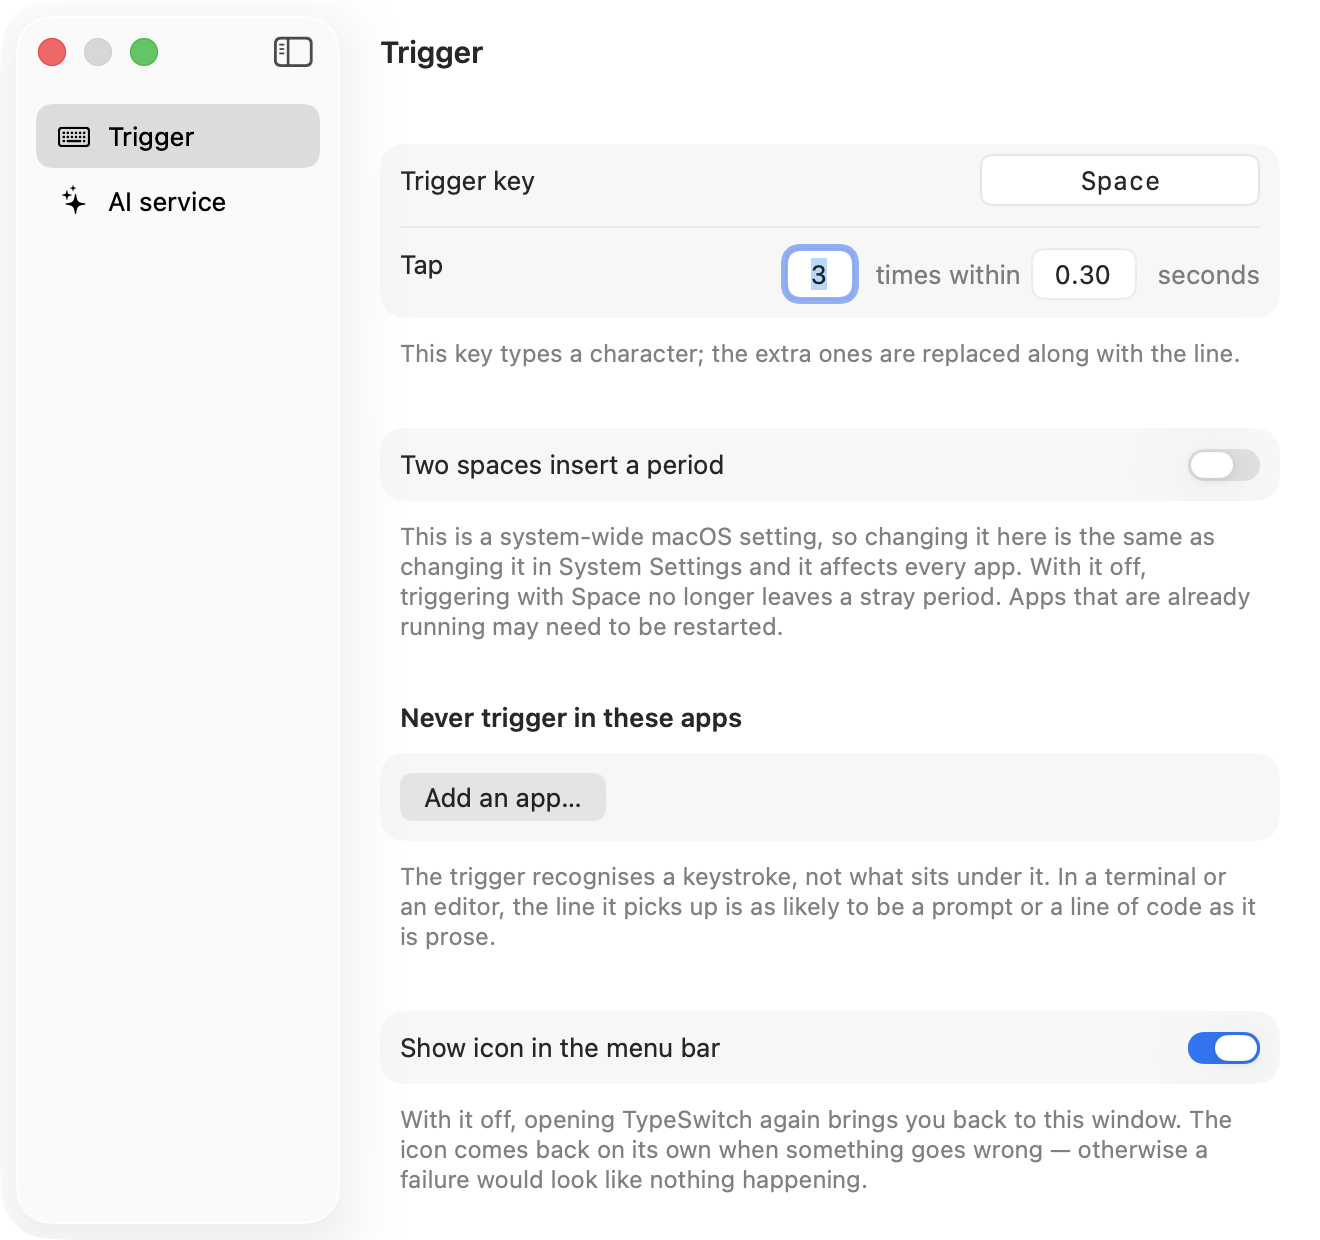
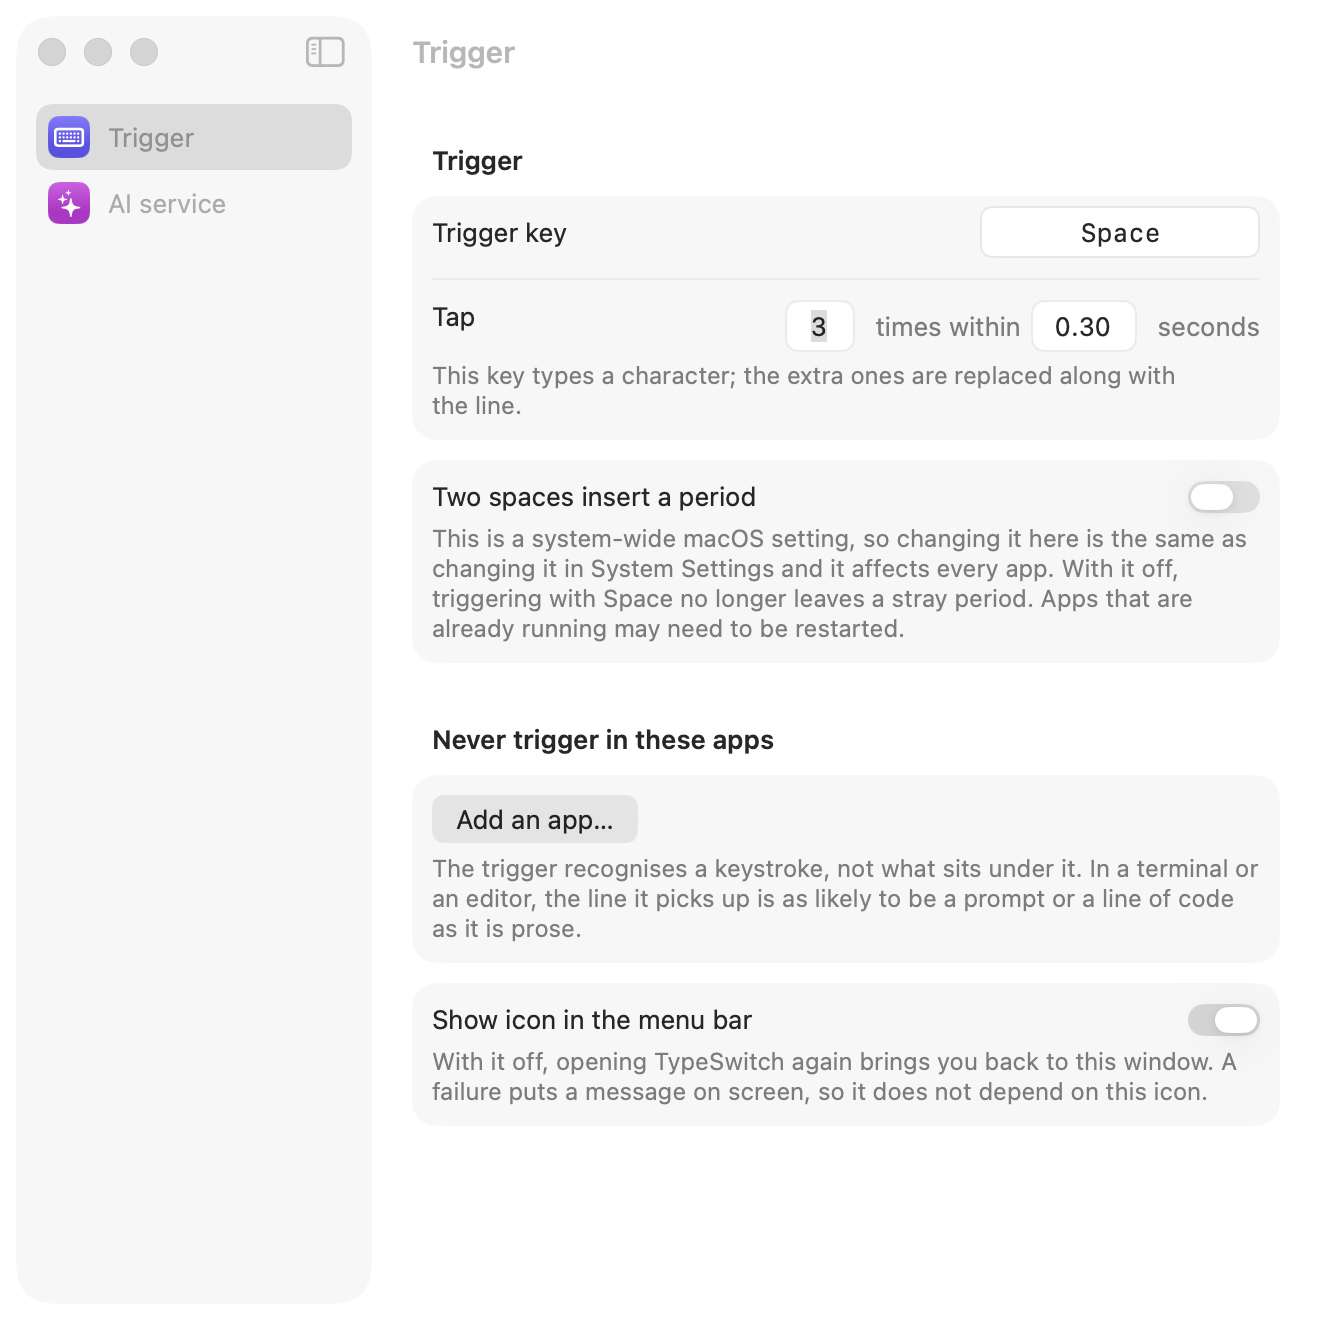
Attach each explanation to the control it explains
A Form's footer sits below the whole group, so a sentence about one control
read as a note about all of them — and a group's last footer read as a note
about the group. Putting the sentence in the same row as its control, with the
divider below rather than between, says what it belongs to without a word.

The sidebar rows get the filled rounded square that settings windows on this
platform have come to use. A colour makes a row findable at a glance; a
monochrome symbol has to be read.

Moving the menu bar footer into its row is what exposed that it still promised
the icon would come back on its own when something went wrong. That behaviour
was removed when failures started putting a message on screen instead, and the
sentence had gone on claiming it.

Screenshots regenerated from the app.

diff --git a/TypeSwitch/SettingsView.swift b/TypeSwitch/SettingsView.swift
@@ -10,10 +10,10 @@ struct SettingsView: View {
     var body: some View {
         NavigationSplitView {
             List(Pane.allCases, selection: $pane) { pane in
-                Label(pane.title, systemImage: pane.symbol).tag(pane)
+                PaneRow(pane: pane).tag(pane)
             }
             .listStyle(.sidebar)
-            .navigationSplitViewColumnWidth(162)
+            .navigationSplitViewColumnWidth(178)
         } detail: {
             Group {
                 switch pane {
@@ -47,6 +47,32 @@ struct SettingsView: View {
             }
         }
 
+        /// Each pane gets its own colour, which is what makes a row findable at
+        /// a glance rather than read one word at a time.
+        var tint: Color {
+            switch self {
+            case .trigger: .indigo
+            case .provider: .purple
+            }
+        }
+    }
+}
+
+/// A sidebar row: the symbol in a filled rounded square, the way settings
+/// windows on this platform have come to look.
+private struct PaneRow: View {
+    let pane: SettingsView.Pane
+
+    var body: some View {
+        HStack(spacing: 9) {
+            Image(systemName: pane.symbol)
+                .font(.system(size: 12, weight: .semibold))
+                .foregroundStyle(.white)
+                .frame(width: 21, height: 21)
+                .background(pane.tint.gradient, in: RoundedRectangle(cornerRadius: 5.5))
+            Text(pane.title)
+        }
+        .padding(.vertical, 2)
     }
 }
 
@@ -74,29 +100,27 @@ private struct TriggerPane: View {
                     }
                 }
 
-                // Reads as one sentence rather than three separate settings.
-                LabeledContent("连按") {
-                    HStack(spacing: 6) {
-                        NumberField(value: $triggerCount, range: 2...8, width: 38)
-                        Text("次，间隔")
-                        DecimalField(value: $triggerWindow, range: 0.1...1.0, width: 56)
-                        Text("秒以内")
+                Explained(text: triggerNote) {
+                    // Reads as one sentence rather than three separate settings.
+                    LabeledContent("连按") {
+                        HStack(spacing: 6) {
+                            NumberField(value: $triggerCount, range: 2...8, width: 38)
+                            Text("次，间隔")
+                            DecimalField(value: $triggerWindow, range: 0.1...1.0, width: 56)
+                            Text("秒以内")
+                        }
+                        .foregroundStyle(.secondary)
                     }
-                    .foregroundStyle(.secondary)
                 }
-            } footer: {
-                Text(triggerNote)
-                    .font(.callout)
-                    .foregroundStyle(.secondary)
+            } header: {
+                Text("触发")
             }
 
             if triggerKeyCode == Int(TriggerBinding.space.keyCode) {
                 Section {
-                    Toggle("连按两次空格加句号", isOn: doubleSpacePeriodBinding)
-                } footer: {
-                    Text("这是 macOS 的全局设置，改这里等同于改系统设置，影响所有 app。关掉后用空格触发不会再冒出句号；已经开着的 app 可能要重开才生效。")
-                        .font(.callout)
-                        .foregroundStyle(.secondary)
+                    Explained(text: "这是 macOS 的全局设置，改这里等同于改系统设置，影响所有 app。关掉后用空格触发不会再冒出句号；已经开着的 app 可能要重开才生效。") {
+                        Toggle("连按两次空格加句号", isOn: doubleSpacePeriodBinding)
+                    }
                 }
             }
 
@@ -104,21 +128,17 @@ private struct TriggerPane: View {
                 ForEach(excluded, id: \.self) { bundleID in
                     ExcludedAppRow(bundleID: bundleID) { remove(bundleID) }
                 }
-                Button("添加 app…", action: addApp)
+                Explained(text: "触发键认的是按键，不是按键底下是什么。终端和代码编辑器里读到的一行，很可能是提示符或一行代码而不是正文。") {
+                    Button("添加 app…", action: addApp)
+                }
             } header: {
                 Text("不在这些 app 里触发")
-            } footer: {
-                Text("触发键认的是按键，不是按键底下是什么。终端和代码编辑器里读到的一行，很可能是提示符或一行代码而不是正文。")
-                    .font(.callout)
-                    .foregroundStyle(.secondary)
             }
 
             Section {
-                Toggle("在菜单栏显示图标", isOn: $showMenuBarIcon)
-            } footer: {
-                Text("关掉后，再次打开 TypeSwitch 会回到这个窗口。出错时图标会自己回来，否则你不会知道它失败了。")
-                    .font(.callout)
-                    .foregroundStyle(.secondary)
+                Explained(text: "关掉后，再次打开 TypeSwitch 会回到这个窗口。出错时屏幕上会弹一条提示，不依赖这个图标。") {
+                    Toggle("在菜单栏显示图标", isOn: $showMenuBarIcon)
+                }
             }
         }
         .formStyle(.grouped)
@@ -242,16 +262,18 @@ private struct ProviderPane: View {
                 }
                 TextField("地址", text: $baseURL)
                 TextField("模型", text: $model)
-                SecureField(
-                    "API Key",
-                    text: $apiKey,
-                    prompt: Text(hasStoredKey ? "已保存，输入可替换" : "sk-…")
-                )
-                .onChange(of: apiKey) { _, new in
-                    let trimmed = new.trimmingCharacters(in: .whitespacesAndNewlines)
-                    Keychain.apiKey = trimmed
-                    hasStoredKey = !trimmed.isEmpty
-                    outcome = nil
+                Explained(text: "任何说这个格式的地址都可以填。Key 存在你的钥匙串里，只发给上面这个地址；跑在本机的模型通常不需要 Key，留空即可。") {
+                    SecureField(
+                        "API Key",
+                        text: $apiKey,
+                        prompt: Text(hasStoredKey ? "已保存，输入可替换" : "sk-…")
+                    )
+                    .onChange(of: apiKey) { _, new in
+                        let trimmed = new.trimmingCharacters(in: .whitespacesAndNewlines)
+                        Keychain.apiKey = trimmed
+                        hasStoredKey = !trimmed.isEmpty
+                        outcome = nil
+                    }
                 }
             } header: {
                 HStack {
@@ -268,27 +290,25 @@ private struct ProviderPane: View {
                     .menuStyle(.borderlessButton)
                     .fixedSize()
                 }
-            } footer: {
-                Text("任何说这个格式的地址都可以填。Key 存在你的钥匙串里，只发给上面这个地址；跑在本机的模型通常不需要 Key，留空即可。")
-                    .font(.callout)
-                    .foregroundStyle(.secondary)
             }
 
             Section {
                 TextField("输出语言", text: $targetLanguage, prompt: Text("English"))
-                TextEditor(text: $prompt)
-                    .font(.system(size: 11, design: .monospaced))
-                    .scrollContentBackground(.hidden)
-                    .frame(height: 112)
-                    .padding(8)
-                    .background(
-                        RoundedRectangle(cornerRadius: 6)
-                            .fill(Color(nsColor: .textBackgroundColor))
-                    )
-                    .overlay(
-                        RoundedRectangle(cornerRadius: 6)
-                            .strokeBorder(Color(nsColor: .separatorColor))
-                    )
+                Explained(text: "发给模型的原话，其中 \(Rewriter.languagePlaceholder) 会替换成上面的输出语言。删光等同于用回内置指令。") {
+                    TextEditor(text: $prompt)
+                        .font(.system(size: 11, design: .monospaced))
+                        .scrollContentBackground(.hidden)
+                        .frame(height: 112)
+                        .padding(8)
+                        .background(
+                            RoundedRectangle(cornerRadius: 6)
+                                .fill(Color(nsColor: .textBackgroundColor))
+                        )
+                        .overlay(
+                            RoundedRectangle(cornerRadius: 6)
+                                .strokeBorder(Color(nsColor: .separatorColor))
+                        )
+                }
             } header: {
                 HStack {
                     Text("改写指令")
@@ -297,10 +317,6 @@ private struct ProviderPane: View {
                         .buttonStyle(.link)
                         .disabled(promptIsDefault)
                 }
-            } footer: {
-                Text("发给模型的原话，其中 \(Rewriter.languagePlaceholder) 会替换成上面的输出语言。删光等同于用回内置指令。")
-                    .font(.callout)
-                    .foregroundStyle(.secondary)
             }
 
             Section {
@@ -401,6 +417,28 @@ private struct ExcludedAppRow: View {
             }
             .buttonStyle(.plain)
             .help("不再排除这个 app")
+        }
+    }
+}
+
+/// A control and the sentence explaining it, kept in one row.
+///
+/// A Form draws a divider between rows, so an explanation placed beside its
+/// control belongs to it visibly; the same text as its own row reads as
+/// belonging to the whole group instead, and a group's last explanation ends up
+/// looking like a note about the group.
+private struct Explained<Content: View>: View {
+    let text: LocalizedStringKey
+    @ViewBuilder var content: Content
+
+    var body: some View {
+        VStack(alignment: .leading, spacing: 5) {
+            content
+            Text(text)
+                .font(.callout)
+                .foregroundStyle(.secondary)
+                .fixedSize(horizontal: false, vertical: true)
+                .frame(maxWidth: .infinity, alignment: .leading)
         }
     }
 }
